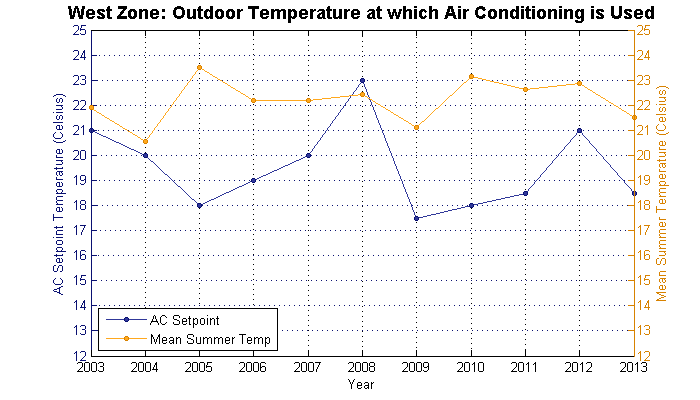
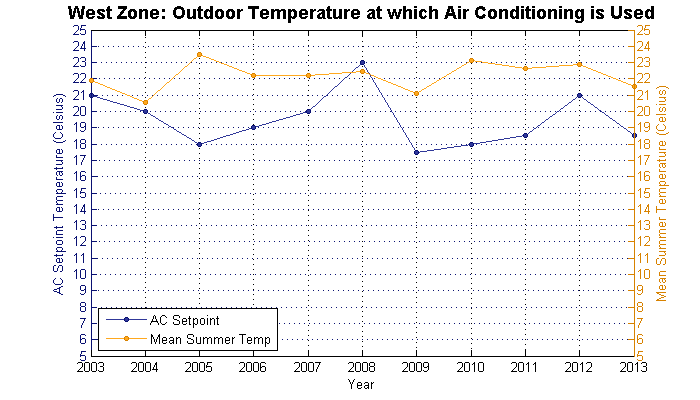
Updated West zone plots.

diff --git a/MATLAB/zonal_three_line_model.m b/MATLAB/zonal_three_line_model.m
@@ -7,8 +7,8 @@ start_year = 2003;
 end_year = 2013;
 
 
-% zone_name = 'West';
-% location_id = 13;
+zone_name = 'West';
+location_id = 13;
 % zone_name = 'Southwest';
 % location_id = 2;
 % zone_name = 'Bruce';
@@ -28,8 +28,8 @@ end_year = 2013;
 % location_id = 8;
 % zone_name = 'Northeast';
 % location_id = 9;
-zone_name = 'Northwest';
-location_id = 10;
+% zone_name = 'Northwest';
+% location_id = 10;
 
 % Create figure
 plot_title = [zone_name ' Zone: Three-Line Model (' ...
@@ -201,8 +201,8 @@ ylabel(baseload_axes, 'Demand (MW)');
 xlabel(baseload_axes, 'Year');
 % axis([2003 2013 3500 4500]); % Toronto
 % axis([2003 2013 2000 3000]); % Southwest
-% axis([2003 2013 1000 2000]); % West
-axis([2003 2013 0 1000]); % Bruce, East, Essa, Niagara, Northwest
+axis([2003 2013 1000 2000]); % West
+% axis([2003 2013 0 1000]); % Bruce, East, Essa, Niagara, Northwest
 % axis([2003 2013 500 1500]); % Northeast
 plot(baseload_annually(:,1), baseload_annually(:,2), '-mo', ...
         'MarkerSize', 3, 'MarkerFaceColor', [0.17 0.61 0.22], ...
